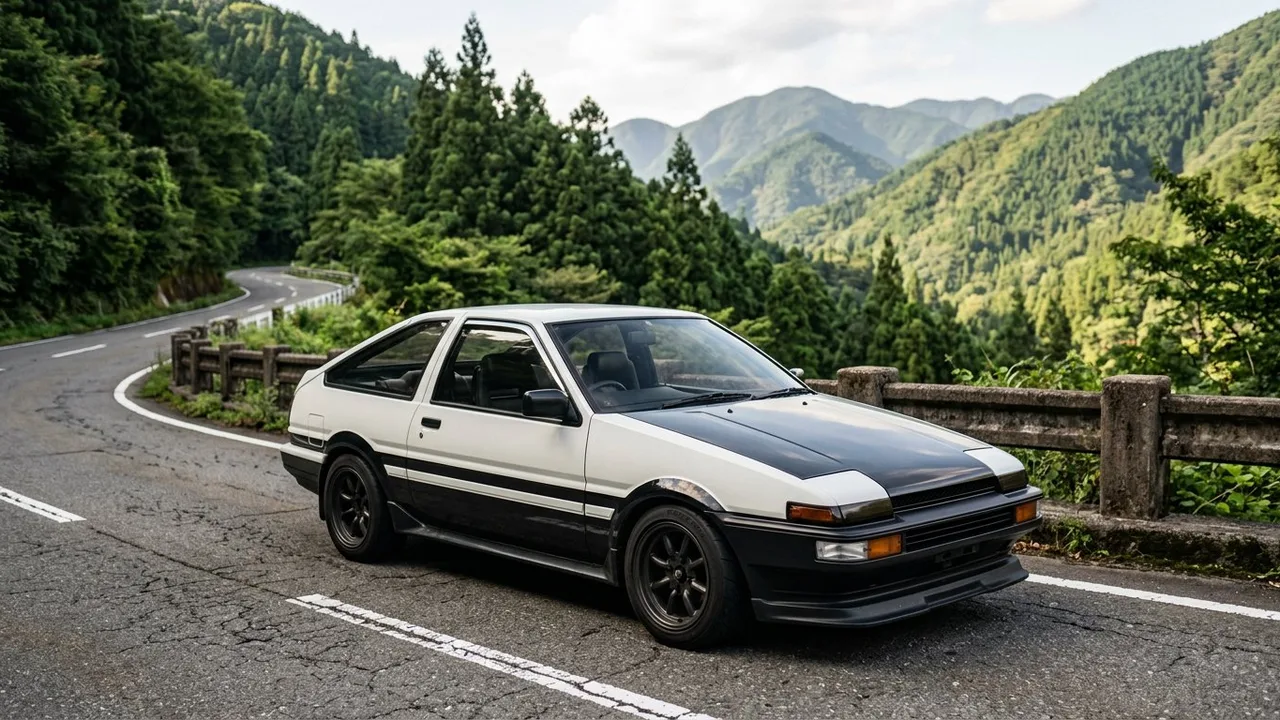
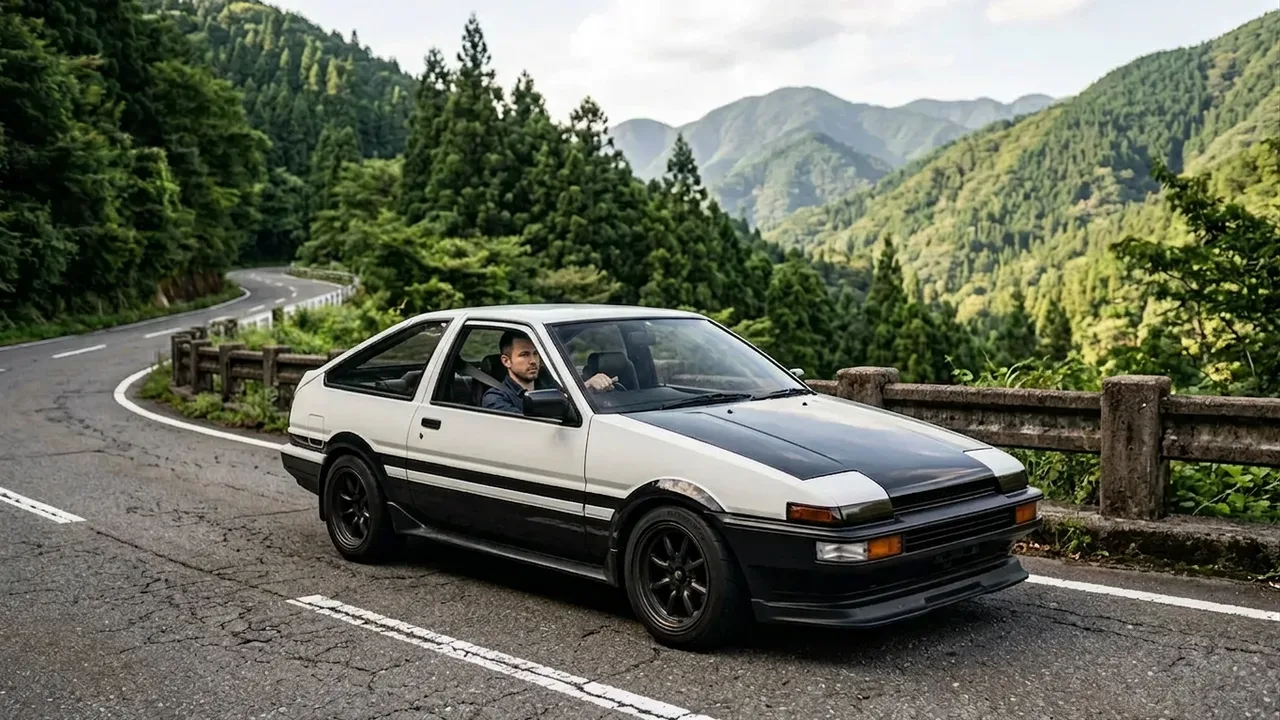
Seccion Historia ahora colapsable con CTA maestro; conductor anadido a fotos ae86, mr2 y s2000

diff --git a/public/index.html b/public/index.html
@@ -252,6 +252,18 @@ main{padding-top:var(--head)}
 .hbody .htext p{margin:0;font-size:15.5px;line-height:1.75;color:#333}
 .hbody .htext p::first-letter{font-family:var(--impact);font-size:30px;color:var(--red);float:left;line-height:1;padding:4px 6px 0 0}
 
+/* ---- master: toda la seccion se despliega con un CTA ---- */
+.hmaster{border:0;background:transparent;border-radius:0;margin:26px 0 0;overflow:visible;box-shadow:none}
+.hmaster > summary{display:block;text-align:center;padding:0;border:0;list-style:none;cursor:pointer;font-weight:800;font-size:16px}
+.hmaster > summary::after{display:none}
+.hcta{display:inline-flex;align-items:center;gap:12px;background:var(--red);color:#fff;font-weight:900;font-size:15px;letter-spacing:.04em;text-transform:uppercase;padding:18px 36px;border-radius:999px;transition:transform .2s,background .2s,box-shadow .2s;box-shadow:0 12px 30px rgba(255,26,26,.28)}
+.hcta::after{content:"+";font-family:var(--impact);font-size:24px;line-height:1;color:#fff}
+.hcta:hover{transform:translateY(-2px);background:#e00}
+.hmaster[open] .hcta{background:#000;box-shadow:0 12px 30px rgba(0,0,0,.2)}
+.hmaster[open] .hcta::after{content:"–"}
+.hmaster > .lead{margin-top:24px}
+.hmaster .hlist{margin-top:26px}
+
 /* ================= FAQ ================= */
 details{border-bottom:1px solid var(--line);padding:18px 0}
 summary{list-style:none;cursor:pointer;font-weight:800;font-size:16px;display:flex;justify-content:space-between;gap:16px;align-items:center}
@@ -551,8 +563,10 @@ footer img.flogo{width:120px;margin:0 auto 20px}
     <div class="wrap">
       <p class="kicker" style="margin:0">Historia de estos iconos</p>
       <h2 class="big">La leyenda que <span class="red">los hizo eternos</span></h2>
-      <p class="lead">Antes de ser figuras de colección, fueron los coches que dominaron las autopistas de la Wangan, los puertos de montaña del touge y los clubes de carreras ilegales como los Midnight Club. Estos son los originales que una generación soñó con conducir.</p>
-      <div class="hlist">
+      <details class="hmaster">
+        <summary><span class="hcta">Desplegar toda la historia</span></summary>
+        <p class="lead">Antes de ser figuras de colección, fueron los coches que dominaron las autopistas de la Wangan, los puertos de montaña del touge y los clubes de carreras ilegales como los Midnight Club. Estos son los originales que una generación soñó con conducir.</p>
+        <div class="hlist">
         <details>
           <summary><span class="hnum">01</span><span class="hname">El Emperador Azul<em>Nissan Skyline GT-R R34 · 1999</em></span></summary>
           <div class="hbody">
@@ -659,6 +673,7 @@ footer img.flogo{width:120px;margin:0 auto 20px}
           </div>
         </details>
       </div>
+      </details>
     </div>
   </section>
 
@@ -1000,6 +1015,16 @@ function tick(){
   }
 }
 tick(); setInterval(tick, 1000);
+
+/* ================= HISTORIA: cambiar texto del CTA maestro ================= */
+const hm = document.querySelector('.hmaster');
+if (hm){
+  const cta = hm.querySelector('.hcta');
+  hm.addEventListener('toggle', () => {
+    cta.textContent = hm.open ? 'Cerrar la historia' : 'Desplegar toda la historia';
+  });
+}
+
 </script>
 
 <script type="application/ld+json">
